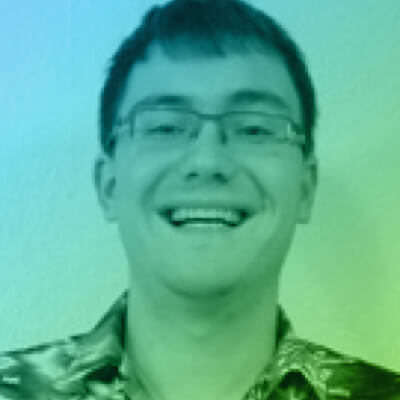
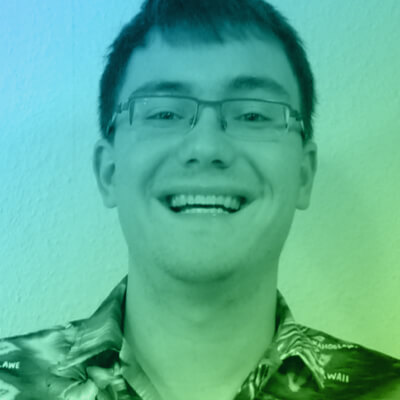
Add new FAQs. Update map-tile. Replace Benni img.

diff --git a/faq.html b/faq.html
@@ -1,6 +1,6 @@
 <!DOCTYPE html>
 <!-- This site was created in Webflow. http://www.webflow.com-->
-<!-- Last Published: Tue Jul 12 2016 01:58:48 GMT+0000 (UTC) -->
+<!-- Last Published: Wed Jul 13 2016 22:45:08 GMT+0000 (UTC) -->
 <html data-wf-site="574807d20d1625555c1ee150" data-wf-page="577fcec769b57ef60a37539a">
 <head>
   <meta charset="utf-8">
@@ -82,6 +82,10 @@
         .strike > span {
         	font-size: 12px;
         }
+      @media screen and (max-width: 420px) {
+        .hero-section {
+    		animation: none;
+    	}
     }
   </style>
 </head>
@@ -91,7 +95,7 @@
       <div class="navbar-container w-container">
         <a class="mapswipe-logo w-nav-brand" href="index.html"><img class="logo" src="images/mapswipe-logo.svg" width="173">
         </a>
-        <nav class="nav-menu w-nav-menu" role="navigation"><a class="navlink w-nav-link" href="faq.html">FAQ</a><a class="navlink w-nav-link" href="http://www.missingmaps.org/events/" target="_blank">events</a><a class="navlink w-nav-link" href="about.html">ABOUT</a><a class="navlink w-nav-link" href="https://medium.com/@mapswipe" target="_blank">BLOG</a>
+        <nav class="nav-menu w-nav-menu" role="navigation"><a class="navlink w-nav-link" href="http://www.missingmaps.org/events/" target="_blank">events</a><a class="navlink w-nav-link" href="faq.html">FAQ</a><a class="navlink w-nav-link" href="about.html">ABOUT</a><a class="navlink w-nav-link" href="http://www.missingmaps.org/blog/2016/07/14/mapswipe/" target="_blank">BLOG</a>
         </nav>
         <div class="menu-btn w-nav-button">
           <div class="w-icon-nav-menu"></div>
@@ -160,10 +164,33 @@
       <div class="faq-row w-row">
         <div class="w-col w-col-6">
           <div class="faq-container">
-            <div class="faq-title">How can I contribute to the initiative?</div>
-            <p class="faq-text">Send an email to <a href="#">feedback@missingmaps.org</a> with questions, comments, or concerns. MapSwipe is an <strong>open source</strong> project created and maintained by volunteers like you, so the best way to see new features implemented is to get involved and make it happen.
+            <div class="faq-title">What happens to the data I give?</div>
+            <p class="faq-text"><strong>User generated data</strong>
+              <br>Data created by MapSwipe volunteers is released under a "liberal" non-reciprocal license (<a href="http://creativecommons.org/licenses/by/4.0/" target="_blank">Creative Commons Attribution</a>), which imposes only the requirement that users acknowledge the source (you can do whatever you want with the data, but you can't claim that you created it or neglect to mention who did create it, in this case the MapSwipe contributors).
               <br>
-              <br>More technical feedback can be added to github: <a href="#">https://github.com/mapswipe</a>
+              <br><strong>Email Addresses</strong>
+              <br>The registered email address for a MapSwipe user account will never intentionally be published on the internet anywhere, shared with third party organisations, or revealed directly to other logged in users. Only System Administrators will have direct access to email address data. It may be used by these people to contact users directly about their MapSwipe related issues.
+              <br>
+              <br><strong>IP address</strong>
+              <br>The IP address of a MapSwipe user will never intentionally be published on the internet anywhere, shared with third party organisations, or revealed directly to others.</p>
+          </div>
+        </div>
+        <div class="w-col w-col-6">
+          <div class="faq-container">
+            <div class="faq-title">How much data does MapSwipe use?</div>
+            <p class="faq-text">It depends on how much area you map! The satellite imagery can be heavy though, so we advise downloading imagery for mapping while you have a wifi connection and then mapping the tiles offline when you are outside of wifi.
+              <br>
+              <br>If you MapSwipe purely through your mobile data plan, you should expect some charges.</p>
+          </div>
+        </div>
+      </div>
+      <div class="faq-row w-row">
+        <div class="w-col w-col-6">
+          <div class="faq-container">
+            <div class="faq-title">How can I contribute to the initiative?</div>
+            <p class="faq-text">We welcome feedback. Please leave your questions, comments, or concerns on <a href="http://goo.gl/forms/RW7GJOE61GsRACIh2" target="_blank">this form here</a>. MapSwipe is an open source project created and maintained by volunteers like you, so the best way to see new features implemented is to get involved and make it happen.
+              <br>
+              <br>More technical feedback can be added to <a href="#">https://github.com/mapswipe</a>
             </p>
           </div>
         </div>

diff --git a/index.html b/index.html
@@ -1,6 +1,6 @@
 <!DOCTYPE html>
 <!-- This site was created in Webflow. http://www.webflow.com-->
-<!-- Last Published: Tue Jul 12 2016 01:58:48 GMT+0000 (UTC) -->
+<!-- Last Published: Wed Jul 13 2016 22:45:08 GMT+0000 (UTC) -->
 <html data-wf-site="574807d20d1625555c1ee150" data-wf-page="574807d20d1625555c1ee151">
 <head>
   <meta charset="utf-8">
@@ -82,6 +82,10 @@
         .strike > span {
         	font-size: 12px;
         }
+      @media screen and (max-width: 420px) {
+        .hero-section {
+    		animation: none;
+    	}
     }
   </style>
 </head>
@@ -91,7 +95,7 @@
       <div class="navbar-container w-container">
         <a class="mapswipe-logo w-nav-brand" href="index.html"><img class="logo" src="images/mapswipe-logo.svg" width="173">
         </a>
-        <nav class="nav-menu w-nav-menu" role="navigation"><a class="navlink w-nav-link" href="faq.html">FAQ</a><a class="navlink w-nav-link" href="http://www.missingmaps.org/events/" target="_blank">events</a><a class="navlink w-nav-link" href="about.html">ABOUT</a><a class="navlink w-nav-link" href="https://medium.com/@mapswipe" target="_blank">BLOG</a>
+        <nav class="nav-menu w-nav-menu" role="navigation"><a class="navlink w-nav-link" href="http://www.missingmaps.org/events/" target="_blank">events</a><a class="navlink w-nav-link" href="faq.html">FAQ</a><a class="navlink w-nav-link" href="about.html">ABOUT</a><a class="navlink w-nav-link" href="http://www.missingmaps.org/blog/2016/07/14/mapswipe/" target="_blank">BLOG</a>
         </nav>
         <div class="menu-btn w-nav-button">
           <div class="w-icon-nav-menu"></div>
@@ -109,7 +113,12 @@
     </div>
     <div class="hero-container">
       <h1 class="hero-heading">With every swipe and tap, you help put families on the map</h1>
-      <div class="hero-subheading">Humanitarian organizations can't help people if they can't find them. MapSwipe is a mobile app that lets you search satellite imagery to help put the world's most vulnerable people on the map.</div>
+      <div class="hero-subheading">Humanitarian organizations can't help people if they can't find them. MapSwipe is a mobile app that lets you search satellite imagery to help put the world's most vulnerable people on the map.
+        <br>
+        <br>
+        <br>
+        <br><strong>COMING THIS FRIDAY</strong>
+      </div>
       <a class="appstore-link w-inline-block" href="#"><img height="50" src="images/app-store.svg">
       </a>
       <a class="appstore-link last w-inline-block" href="#"><img height="50" src="images/google-play.svg">

diff --git a/about.html b/about.html
@@ -1,6 +1,6 @@
 <!DOCTYPE html>
 <!-- This site was created in Webflow. http://www.webflow.com-->
-<!-- Last Published: Tue Jul 12 2016 01:58:48 GMT+0000 (UTC) -->
+<!-- Last Published: Wed Jul 13 2016 22:45:08 GMT+0000 (UTC) -->
 <html data-wf-site="574807d20d1625555c1ee150" data-wf-page="5781b4ea4a3a560c48f12fbb">
 <head>
   <meta charset="utf-8">
@@ -82,6 +82,10 @@
         .strike > span {
         	font-size: 12px;
         }
+      @media screen and (max-width: 420px) {
+        .hero-section {
+    		animation: none;
+    	}
     }
   </style>
 </head>
@@ -91,7 +95,7 @@
       <div class="navbar-container w-container">
         <a class="mapswipe-logo w-nav-brand" href="index.html"><img class="logo" src="images/mapswipe-logo.svg" width="173">
         </a>
-        <nav class="nav-menu w-nav-menu" role="navigation"><a class="navlink w-nav-link" href="faq.html">FAQ</a><a class="navlink w-nav-link" href="http://www.missingmaps.org/events/" target="_blank">events</a><a class="navlink w-nav-link" href="about.html">ABOUT</a><a class="navlink w-nav-link" href="https://medium.com/@mapswipe" target="_blank">BLOG</a>
+        <nav class="nav-menu w-nav-menu" role="navigation"><a class="navlink w-nav-link" href="http://www.missingmaps.org/events/" target="_blank">events</a><a class="navlink w-nav-link" href="faq.html">FAQ</a><a class="navlink w-nav-link" href="about.html">ABOUT</a><a class="navlink w-nav-link" href="http://www.missingmaps.org/blog/2016/07/14/mapswipe/" target="_blank">BLOG</a>
         </nav>
         <div class="menu-btn w-nav-button">
           <div class="w-icon-nav-menu"></div>
@@ -206,12 +210,6 @@
           <div class="teammate-container"><img class="team-photo" src="images/benni.jpg" width="200">
             <div class="team-name">Benni Herfort</div>
             <div class="team-role">GIS Researcher</div>
-            <div class="socialmedia-container">
-              <a class="socialmedia-link w-inline-block" href="#"><img class="socialmedia-icon" src="images/linkedin.svg" width="25">
-              </a>
-              <a class="last-link socialmedia-link w-inline-block" href="#"><img class="socialmedia-icon" src="images/twitter.svg" width="25">
-              </a>
-            </div>
           </div>
         </div>
         <div class="w-col w-col-4"></div>

diff --git a/css/mapswipe.webflow.css b/css/mapswipe.webflow.css
@@ -20,7 +20,7 @@ a:hover {
   background-color: #000;
   background-image: url('../images/map-tiles.jpg');
   background-position: 0px 0px;
-  background-size: auto 800px;
+  background-size: auto 750px;
   background-repeat: repeat-x;
 }
 
@@ -100,6 +100,7 @@ a:hover {
 }
 
 .appstore-link {
+  display: none;
   margin-right: 20px;
 }
 
